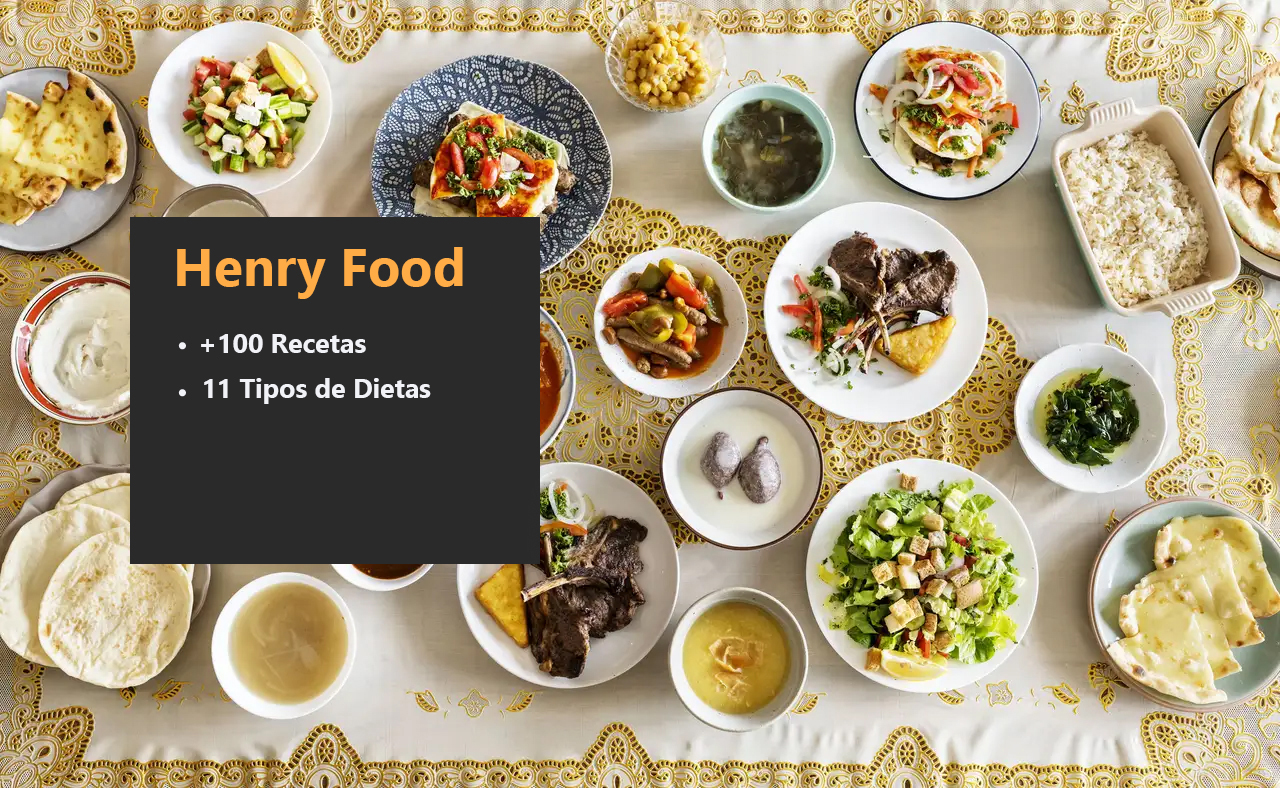
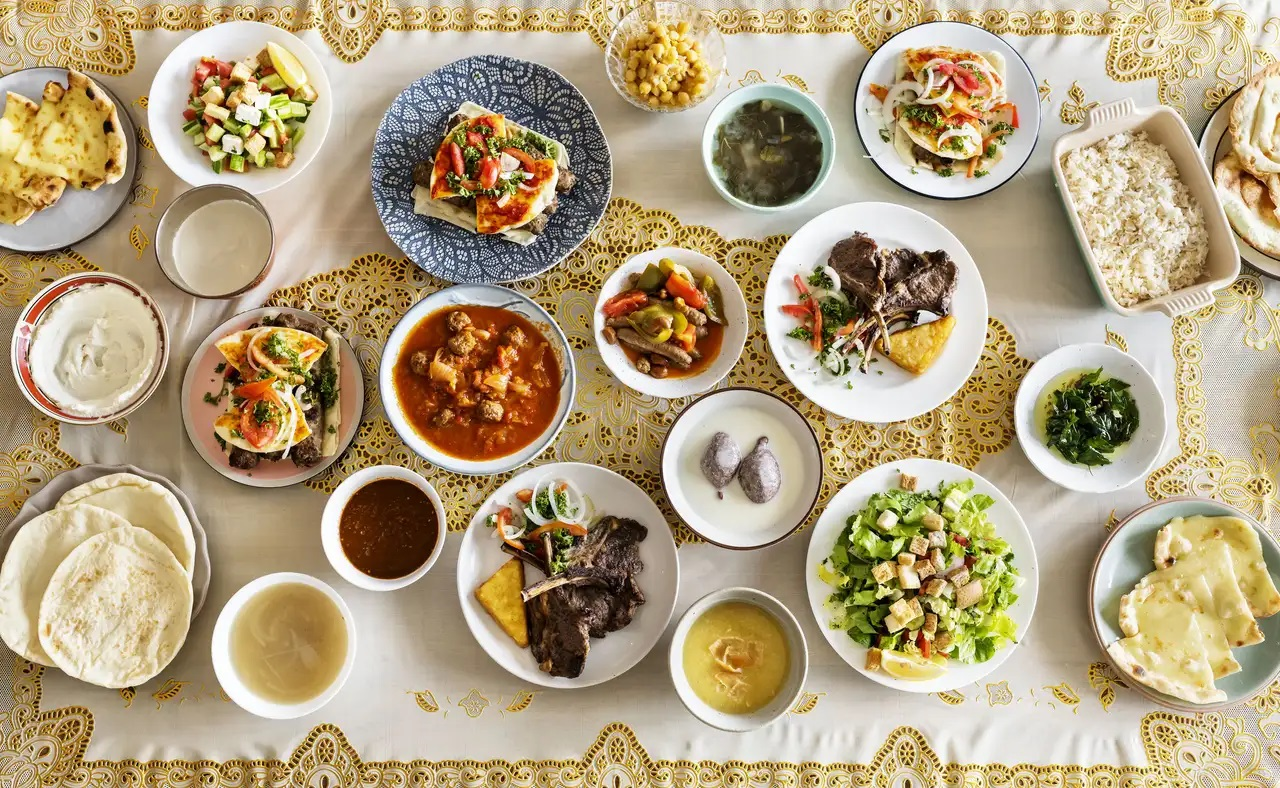
landing page responsive

Changed region(s): [[0.0938, 0.2741, 0.4375, 0.731]]

diff --git a/client/src/components/LandingPage/LandingPage.module.css b/client/src/components/LandingPage/LandingPage.module.css
@@ -3,16 +3,78 @@
     background-image: url(./20.jpg); 
     background-repeat:no-repeat;
     background-position: center center;
-    height: 770px;
     background-size: cover;
     margin-bottom:-40px; 
 }
 
 
+/* @media(min-width:1400px){
+  .principal{
+    height: 770px;
+    background-size: cover;
+  }
+
+
+} */
+
+@media(max-width:990px){
+  .containerText{
+    background-color:red ;
+  }
+  .principal{
+    height:100%
+  }
+}
+
+@media(min-width:991px){
+  .containerText{
+    background-color:yellow ;
+    margin-top: 205px;
+    margin-left:195px;
+  }
+  .principal{
+    height: 935px;
+  }
+}
+
+
+.henryFoodText{
+  color: #ffac46; 
+  font-size:65px;
+  margin-top:30px;
+  margin-left:100px;
+}
+
+.containerButton{
+    margin-top:20px;
+    margin-left:120px;
+  
+}
+
+.textoP{
+  color: white; 
+  font-size:30px;
+  margin-top:0px;
+  margin-left:120px;
+}
+
+
+
+.containerText{
+  background-color:#2a2a2a;
+  width: 615px;
+  height: 515px;
+  position:absolute;
+  display:flex;
+  flex-direction:column;
+  align-items:flex-start;
+  
+}
+
 
 .boton{
-    margin-top: 440px;
-    margin-left:-750px;
+    /* margin-top: 530px; */
+/*     margin-left:-1200px; */
     width: 165px;
     height: 65px;
     cursor: pointer;

diff --git a/client/src/components/LandingPage/LandingPage.jsx b/client/src/components/LandingPage/LandingPage.jsx
@@ -5,9 +5,16 @@ import styles from './LandingPage.module.css'
 export default function LandingPage() {
 	return(
 		<div className={styles.principal}>
-			<Link to ='/home'>
-				<button className={styles.boton}>Igresar</button>
-			</Link>
+			<div className={styles.containerText}> 
+				<h1  className={styles.henryFoodText}>Henry Food</h1>
+				<h1  className={styles.textoP}>● + 100 Recetas</h1>
+				<h1  className={styles.textoP}>● 11 Tipos de Dietas</h1>
+				<div className={styles.containerButton}>
+					<Link to ='/home'>
+						<button className={styles.boton}>Igresar</button>
+					</Link>
+				</div>
+			</div>
 		</div>
 	)
 }
